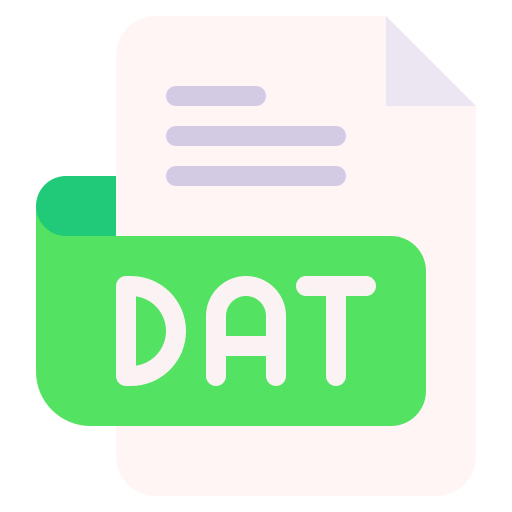
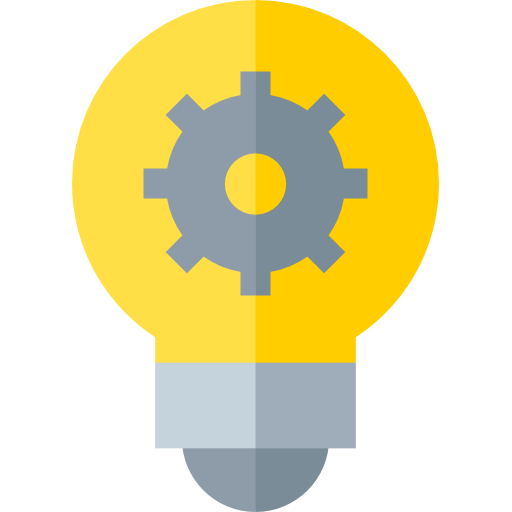
cambiando icono del sitio

diff --git a/index.html b/index.html
@@ -5,8 +5,8 @@
     <meta name="viewport" content="width=device-width, initial-scale=1.0">
     <title>Ingeniería & ciencia de datos | L. Tamayo</title>
     
-    <link rel="icon" href="icono.png?v=2" type="Static/dat_.png">
-    <link rel="apple-touch-icon" href="Static/dat_.png?v=2">
+    <link rel="icon" type="image/png" href="./Static/dat_.png">
+    <link rel="apple-touch-icon" href="./Static/dat_.png">
 
     <link rel="preconnect" href="https://fonts.googleapis.com">
     <link rel="preconnect" href="https://fonts.gstatic.com" crossorigin>
